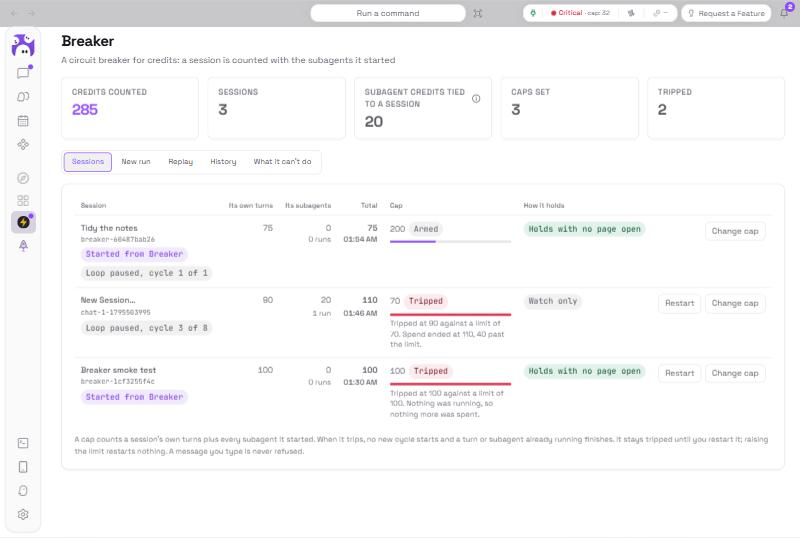
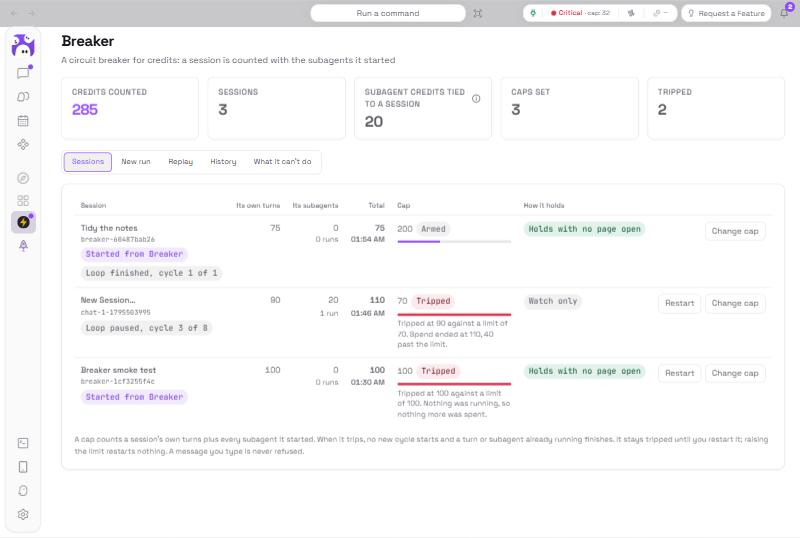
Record the git-URL install, the form and restart checks, and the trust prompt

diff --git a/README.md b/README.md
@@ -47,14 +47,18 @@ Rules it keeps, all taken from the design:
 kirocrew app install https://github.com/OracleOfAggieland/crew-breaker
 ```
 
-Then open the app's page in the dashboard (Discover, or `/apps/detail/breaker`), press Enable and accept the trust prompt. Kiro Crew asks because a third-party app's backend runs inside the gateway with the gateway's own access. The prompt lists what Breaker asks for:
+Then open the app's page in the dashboard (`/apps/detail/breaker`), press Enable and accept the trust prompt. Kiro Crew asks because a third-party app's backend runs inside the gateway with the gateway's own access, and it has not reviewed this app's code. Read the code first if you like; the backend is about 2,100 lines of Python. The prompt lists what Breaker asks for:
 
 - chat sessions of its own, for work started from Breaker;
 - `GET /api/sessions/memory`, to see running subagents and their parent sessions;
 - `/api/autonudge`, to see goal loops and, from the page, to pause one;
 - its own routes under `/api/apps/breaker`.
 
+![The trust prompt Kiro Crew shows before Breaker runs](docs/img/trust.jpg)
+
 Breaker reads Crew's usage files (`usage/tokens/*.jsonl` under the data home) and writes only to its own data folder.
+
+To update later, pull the checkout that `kirocrew app install` printed and run `kirocrew app update breaker`. On Windows that command isn't available, so press Sync on the app's page.
 
 ## Use
 
@@ -118,11 +122,11 @@ The rest run the backend against real usage files in a temporary folder and a st
 
 Checked on Nov 24, 2026 in a real Kiro Crew v0.13.1 gateway on Windows, on the stand-in backend above:
 
-- **Install and trust.** The app installs, the trust prompt lists exactly the permissions above, and the backend's hooks load.
-- **A run Breaker started.** With a limit of 100 it was warned at 88 and tripped at 100. Breaker removed its loop (Crew's log: `stopped — reason='credit_cap' (cycles 5/6)`), and nothing was billed afterward.
+- **Install and trust.** Installed from this repo's git URL with the command above. The trust prompt lists exactly the permissions above, and the backend's hooks load.
+- **A run Breaker started.** With a limit of 100 it was warned at 88 and tripped at 100. Breaker removed its loop (Crew's log: `stopped — reason='credit_cap' (cycles 5/6)`), and nothing was billed afterward. A second run, started from the New run form with a limit of 60, tripped at 63. After its limit was raised to 200 it stayed tripped until Restart, which armed its loop again for the one cycle that was left.
 - **A loop the owner started.** With a limit of 70 and a loop billing 30 a cycle, the cap tripped at 90. The open Breaker page paused the loop one second later, at cycle 3 of 8, and nothing was billed afterward.
 - **A real subagent.** A session at 90 credits started a subagent. Breaker showed it under that session while it ran, counted its first 10 credits live (total 100), and settled at 110 when its row was written. That row names no parent.
-- **The page.** All five tabs, the cap editor, the New run form and Restart.
+- **The page.** All five tabs, the cap editor, the New run form and Restart, in the light and dark themes.
 
 Not checked:
 
